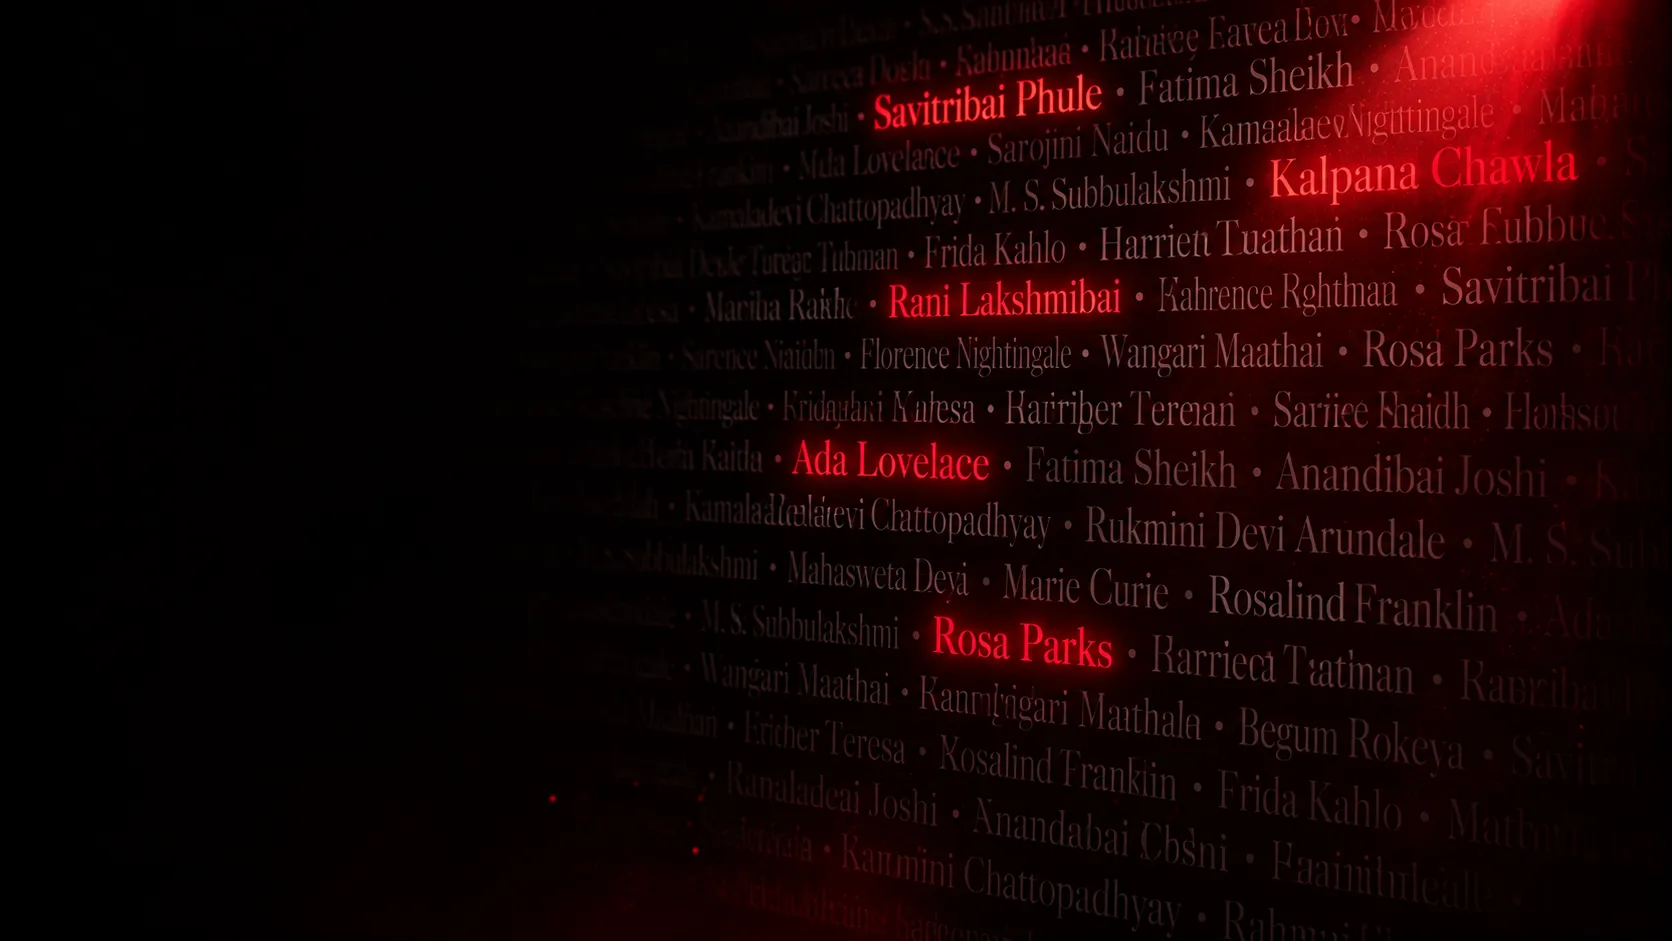
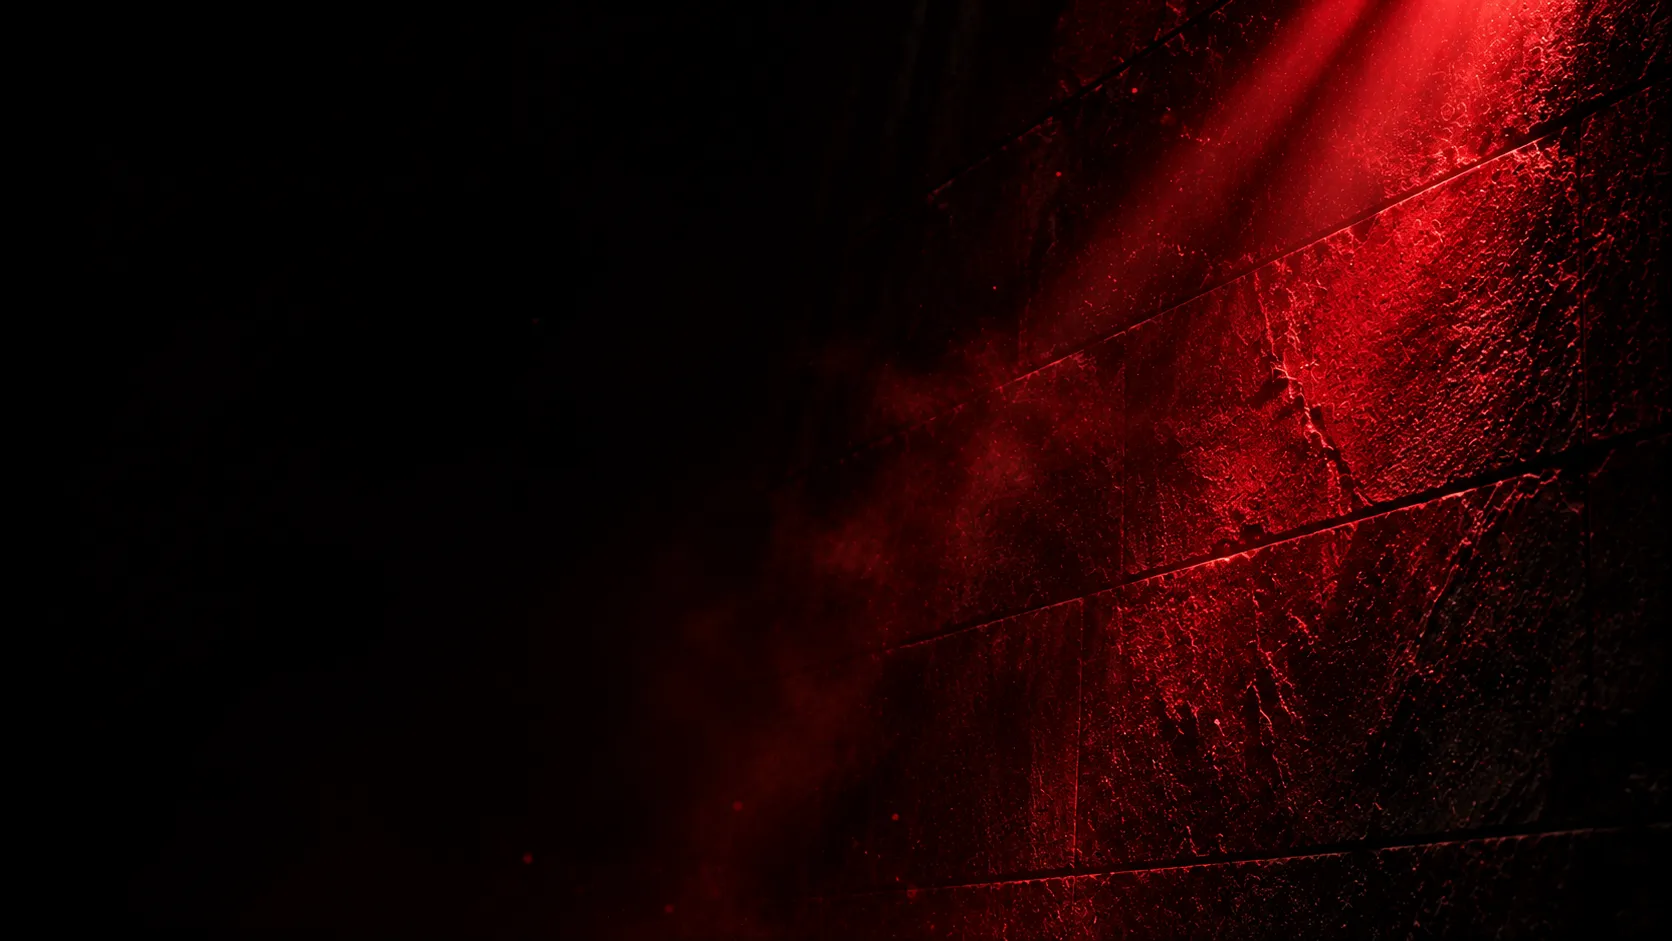
feat: /theme stone-wall photo hero, remove names wall

diff --git a/app/globals.css b/app/globals.css
@@ -573,111 +573,6 @@ html.has-custom-cursor select {
   outline-offset: 3px;
 }
 
-/* /theme hero names wall (components/sections/names-wall.tsx). */
-.nw {
-  position: absolute;
-  inset: 0;
-  overflow: hidden;
-  pointer-events: none;
-}
-/* the lit right-hand area of the photo, fading out toward the headline */
-.nw-wall {
-  position: absolute;
-  inset: 4% 0 6% 48%;
-  overflow: hidden;
-  perspective: 900px;
-  -webkit-mask-image: linear-gradient(90deg, transparent 0%, #000 34%, #000 96%, transparent 100%),
-    linear-gradient(180deg, transparent 0%, #000 12%, #000 86%, transparent 100%);
-  mask-image: linear-gradient(90deg, transparent 0%, #000 34%, #000 96%, transparent 100%),
-    linear-gradient(180deg, transparent 0%, #000 12%, #000 86%, transparent 100%);
-  -webkit-mask-composite: source-in;
-  mask-composite: intersect;
-}
-/* tilt matched to the photo: rows rise ~4° to the right and grow toward the right edge */
-.nw-plane {
-  position: absolute;
-  top: 2%;
-  left: -6%;
-  width: 150%;
-  transform: rotateY(-8deg) rotateZ(-4deg);
-  transform-origin: 20% 50%;
-}
-.nw-row {
-  margin: 0;
-  white-space: nowrap;
-  font-family: var(--font-display);
-  font-weight: 400;
-  font-size: clamp(1.7rem, min(2.8vw, 5.6svh), 3rem);
-  line-height: 1.6;
-  color: rgb(232 222 226 / 0.62);
-  text-shadow: 0 1px 2px rgb(5 3 4 / 0.8);
-}
-.nw-sep {
-  color: rgb(232 222 226 / 0.35);
-}
-.nw-name {
-  transition: color 1.6s ease, text-shadow 1.6s ease;
-}
-.nw-name.nw-glow {
-  color: #eb0028;
-  text-shadow: 0 0 18px rgb(235 0 40 / 0.6), 0 0 42px rgb(235 0 40 / 0.32);
-}
-/* beam from the top right */
-.nw-beam {
-  position: absolute;
-  top: -20%;
-  right: -10%;
-  width: 70%;
-  height: 120%;
-  background: radial-gradient(60% 55% at 85% 0%, rgb(235 0 40 / 0.32), rgb(235 0 40 / 0.1) 45%, transparent 72%);
-  transform: rotate(-18deg);
-  transform-origin: 85% 0%;
-  filter: blur(8px);
-}
-/* dust: two layers of tiny specks drifting slowly inside the beam */
-.nw-dust {
-  position: absolute;
-  top: 0;
-  right: 0;
-  width: 55%;
-  height: 100%;
-  background-image:
-    radial-gradient(1px 1px at 12% 22%, rgb(255 220 214 / 0.55), transparent),
-    radial-gradient(1px 1px at 38% 64%, rgb(255 220 214 / 0.4), transparent),
-    radial-gradient(1.5px 1.5px at 66% 30%, rgb(255 220 214 / 0.5), transparent),
-    radial-gradient(1px 1px at 82% 76%, rgb(255 220 214 / 0.35), transparent),
-    radial-gradient(1px 1px at 54% 12%, rgb(255 220 214 / 0.45), transparent),
-    radial-gradient(1.5px 1.5px at 24% 88%, rgb(255 220 214 / 0.3), transparent);
-  background-size: 320px 320px;
-  -webkit-mask-image: radial-gradient(70% 70% at 80% 0%, #000, transparent 75%);
-  mask-image: radial-gradient(70% 70% at 80% 0%, #000, transparent 75%);
-  opacity: 0.7;
-  animation: nw-dust 40s linear infinite;
-}
-@keyframes nw-dust {
-  from { background-position: 0 0; }
-  to { background-position: -120px 320px; }
-}
-@media (max-width: 1023px) {
-  /* tablet and phone: the wall sits above the headline, faded away from the text */
-  .nw-wall {
-    inset: 0;
-    -webkit-mask-image: linear-gradient(90deg, transparent 0%, #000 60%), linear-gradient(180deg, transparent 0%, #000 10%, #000 34%, transparent 46%);
-    mask-image: linear-gradient(90deg, transparent 0%, #000 60%), linear-gradient(180deg, transparent 0%, #000 10%, #000 34%, transparent 46%);
-  }
-  .nw-row {
-    font-size: clamp(1.25rem, 3.6vw, 1.9rem);
-  }
-}
-@media (prefers-reduced-motion: reduce) {
-  .nw-dust {
-    animation: none;
-  }
-  .nw-name {
-    transition: none;
-  }
-}
-
 /* /theme changemaker rows: line reveals on hover/focus where a pointer can hover. */
 .cm-num {
   color: transparent;

diff --git a/components/page-hero.tsx b/components/page-hero.tsx
@@ -21,16 +21,13 @@ export function PageHero({
   mobileImage,
   mobilePosition,
   imageShift,
-  backdrop,
-  imageFilter,
 }: {
   eyebrow: string;
   title: string;
   /** trailing word(s) in #EB0028 */
   accent?: string;
   intro: string;
-  /** Background photo. Omit when passing `backdrop` instead. */
-  image?: string;
+  image: string;
   imagePosition?: string;
   /** Optional art-directed crop for phones (below 640px). */
   mobileImage?: string;
@@ -38,10 +35,6 @@ export function PageHero({
   mobilePosition?: string;
   /** Push the photo down (CSS length), e.g. to keep a stage clear of the nav. */
   imageShift?: string;
-  /** Custom decorative layer instead of a photo (e.g. /theme's names). Must be aria-hidden. */
-  backdrop?: React.ReactNode;
-  /** CSS filter on the photo, e.g. "blur(2.5px) brightness(0.7)" to turn it into texture. */
-  imageFilter?: string;
 }) {
   const ref = useRef<HTMLElement>(null);
   const reduce = useReducedMotion();
@@ -50,7 +43,7 @@ export function PageHero({
   const y = useTransform(scrollYProgress, [0, 1], ["0%", "8%"]);
 
   const common = { alt: "", fill: true, priority: true, sizes: "100vw" } as const;
-  const desktop = image ? getImageProps({ ...common, src: image }).props : null;
+  const desktop = getImageProps({ ...common, src: image }).props;
   const mobile = mobileImage ? getImageProps({ ...common, src: mobileImage }).props : null;
   const pos = {
     "--hero-pos": imagePosition,
@@ -76,16 +69,13 @@ export function PageHero({
       className="image-hero relative isolate flex flex-col overflow-hidden bg-[#050304]"
     >
       {/* 1. image + red grade + fades. Oversized so the parallax never shows an edge. */}
-      {desktop && (
-        <motion.div aria-hidden style={reduce ? undefined : { y }} className="absolute inset-x-0 -inset-y-[10%]">
-          <picture>
-            {mobile && <source media="(max-width: 639px)" srcSet={mobile.srcSet} sizes={mobile.sizes} />}
-            {/* art-directed <picture>; src/srcSet come from getImageProps */}
-            <img {...desktop} alt="" className="image-hero-img object-cover" style={{ ...desktop.style, ...pos, ...(imageFilter ? { filter: imageFilter } : {}) }} />
-          </picture>
-        </motion.div>
-      )}
-      {backdrop}
+      <motion.div aria-hidden style={reduce ? undefined : { y }} className="absolute inset-x-0 -inset-y-[10%]">
+        <picture>
+          {mobile && <source media="(max-width: 639px)" srcSet={mobile.srcSet} sizes={mobile.sizes} />}
+          {/* art-directed <picture>; src/srcSet come from getImageProps */}
+          <img {...desktop} alt="" className="image-hero-img object-cover" style={{ ...desktop.style, ...pos }} />
+        </picture>
+      </motion.div>
       <span
         aria-hidden
         className="absolute inset-0 bg-[linear-gradient(180deg,rgb(5_3_4/0.85)_0px,transparent_160px),linear-gradient(180deg,transparent_55%,#050304_100%)]"
@@ -95,7 +85,7 @@ export function PageHero({
       <span aria-hidden className="grain absolute inset-0 opacity-[0.08] [mask-image:linear-gradient(180deg,#000_55%,transparent_92%)]" />
 
       {/* 3. beam + haze (hidden on phones); each fades out well inside the hero */}
-      <span aria-hidden className={`image-hero-fx pointer-events-none absolute inset-0 ${backdrop ? "hidden" : "hidden sm:block"}`}>
+      <span aria-hidden className="image-hero-fx pointer-events-none absolute inset-0 hidden sm:block">
         <span className="image-hero-beam" />
         <span className="image-hero-haze left-[8%] top-[30%]" />
         <span className="image-hero-haze image-hero-haze-2 right-[10%] top-[45%]" />

diff --git a/app/theme/page.tsx b/app/theme/page.tsx
@@ -3,7 +3,6 @@ import { site } from "@/lib/site";
 import { PageHero } from "@/components/page-hero";
 import { Theme } from "@/components/sections/theme";
 import { Changemakers } from "@/components/sections/changemakers";
-import { NamesWall } from "@/components/sections/names-wall";
 
 export const metadata = pageMeta({
   title: "Theme",
@@ -22,10 +21,7 @@ export default function ThemePage() {
         intro={`${first} ${second}: three Sanskrit words, one idea. Change does not wait for someone else.`}
         image="/images/theme-hero.webp"
         imagePosition="right center"
-        mobilePosition="78% center"
-        // blurred and dimmed: the photo's names read as texture, the live wall on top stays sharp
-        imageFilter="blur(2.5px) brightness(0.7)"
-        backdrop={<NamesWall />}
+        mobilePosition="56% center"
       />
       <Theme />
       <Changemakers />
